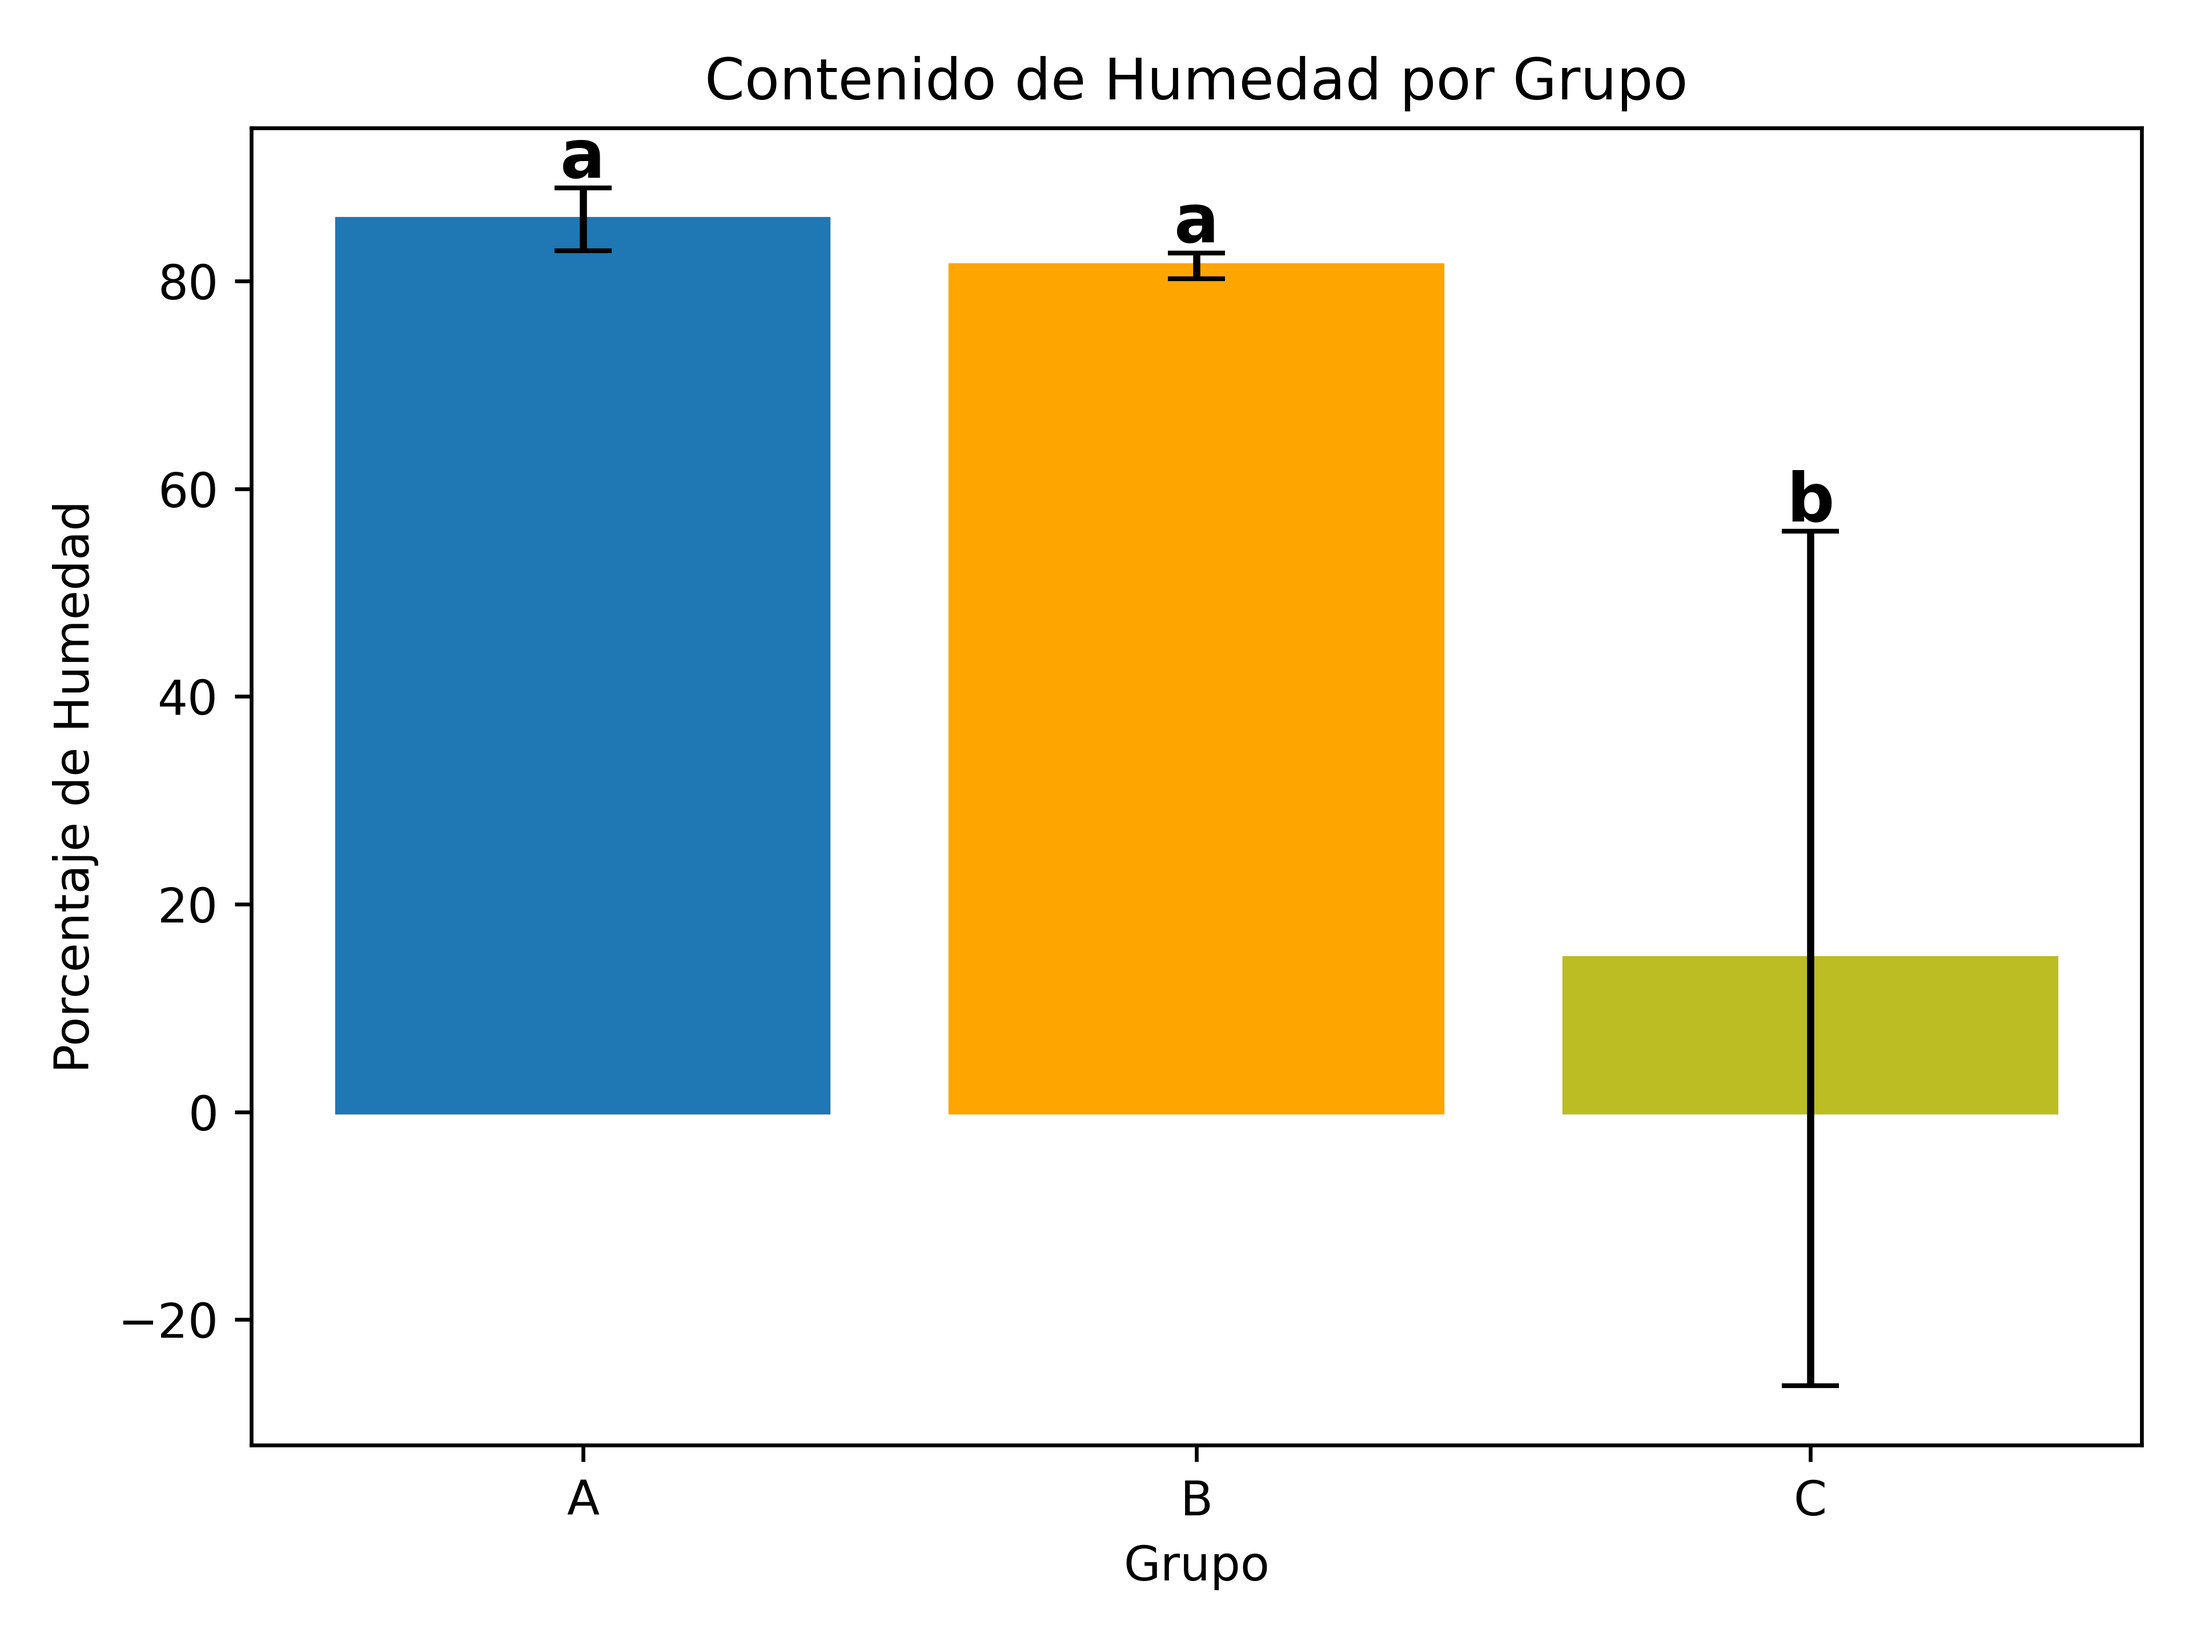
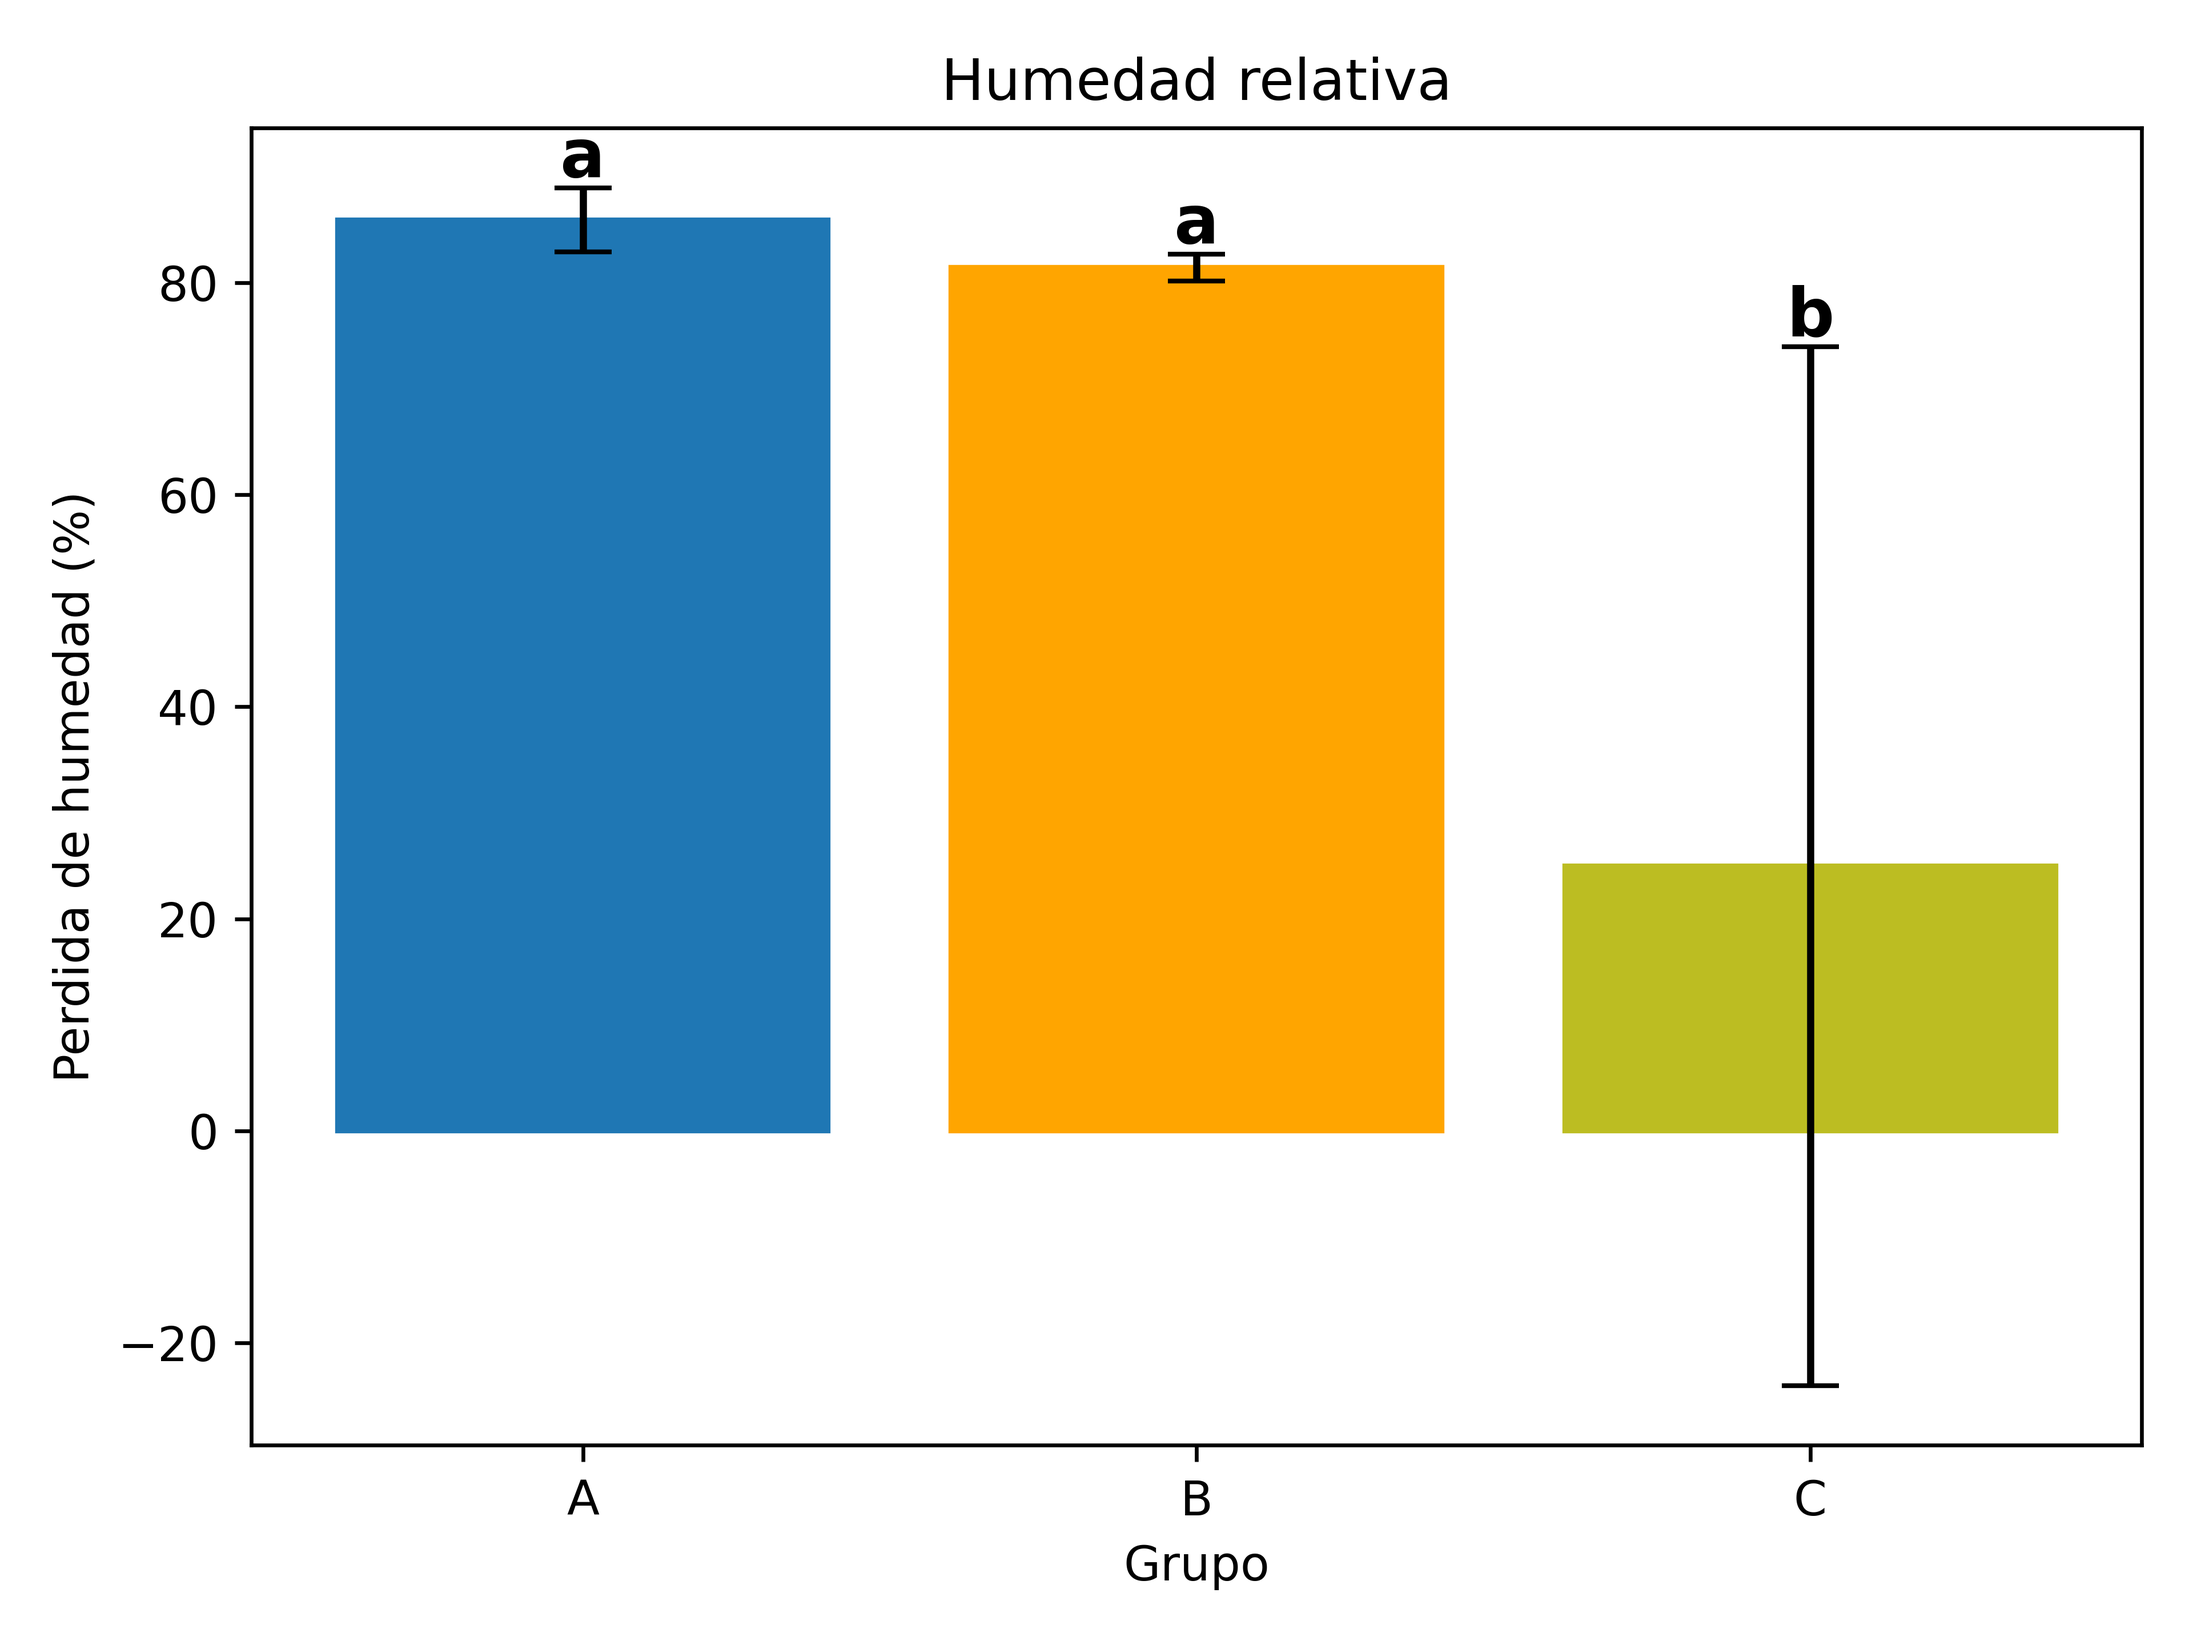
In progress

diff --git a/scripts/analizador.py b/scripts/analizador.py
@@ -22,78 +22,55 @@ print(data.isnull().sum())
 sns.barplot(x='muestra', y='porcentaje_humedad', data=data)
 
 plt.title('Contenido de humedad')
-plt.xlabel('Muestra')
-plt.ylabel('Porcentaje de Humedad')
+plt.xlabel('Muestras')
+plt.ylabel('Porcentaje de humedad (%)')
 
 plt.savefig('data/figuras/distribucion_variable_objetivo.png')
 
-# análisis de varianza (ANOVA)
-groups = [group["porcentaje_humedad"].values for name, group in data.groupby("grupo")]
-f_statistic, p_value = stats.f_oneway(*groups)
-print(f"ANOVA F-statistic: {f_statistic}, p-value: {p_value}")
+# t-test
+group1 = data[data["grupo"] == "A"]["porcentaje_humedad"]
+group2 = data[data["grupo"] == "B"]["porcentaje_humedad"]
 
-# prueba de Tukey para comparaciones múltiples
-if p_value < 0.05:
-    print("\nRunning Tukey test...\n")
-    
-    tukey = pairwise_tukeyhsd(
-        endog=data["porcentaje_humedad"],
-        groups=data["grupo"],
-        alpha=0.05
-    )
-    
-    print(tukey)
-    tukey.plot_simultaneous()
-    plt.title('Tukey HSD Test')
-    plt.xlabel('Mean Difference')
-    plt.savefig('data/figuras/tukey_test.png')
-else:
-    print("No significant differences found among groups.")
+# t-test
+t_stat, p_value = stats.ttest_ind(group1, group2)
 
-# gráfico de cajas para visualizar las diferencias entre grupos
-
-stats = data.groupby("grupo")["porcentaje_humedad"].agg(["mean", "std"])
-
-# estadísticas para asignar letras
-groups = stats.index
-means = stats["mean"]
-stds = stats["std"]
-
-# Tukey
-tukey = pairwise_tukeyhsd(data["porcentaje_humedad"], data["grupo"], alpha=0.05)
-print(tukey)
-
-# Check significance
-reject = tukey.reject[0]  # True or False
-
-# Assign letters
-if reject:
-    letters = ['a', 'b']  # different
-else:
-    letters = ['a', 'a']  # same
+# Stats
+means = data.groupby("grupo")["porcentaje_humedad"].mean()
+stds = data.groupby("grupo")["porcentaje_humedad"].std()
 
 # Plot
 plt.figure()
+bars = plt.bar(means.index, means.values, yerr=stds, capsize=6)
 
-bars = plt.bar(
-    groups,
-    means,
-    yerr=stds,
-    capsize=6
-)
+# color
+colors = ["#4C72B0", "salmon"] 
 
-# Colors
-colors = ["#1f77b4", "orange"]
 for bar, color in zip(bars, colors):
     bar.set_color(color)
 
-# Add Tukey letters above bars
-for i, (mean, std, letter) in enumerate(zip(means, stds, letters)):
-    plt.text(i, mean + std + 1, letter, ha='center', fontsize=14, fontweight='bold')
+# Add significance line
+x1, x2 = 0, 1
+y = max(means + stds) + 2
 
-plt.title('Contenido de Humedad por Grupo')
-plt.xlabel('Grupo')
-plt.ylabel('Porcentaje de Humedad')
+plt.plot([x1, x1, x2, x2], [y, y+1, y+1, y], lw=1.5)
+
+# Add asterisk
+if p_value < 0.001:
+    text = "***"
+elif p_value < 0.01:
+    text = "**"
+elif p_value < 0.05:
+    text = "*"
+else:
+    text = "ns"
+
+plt.text((x1+x2)/2, y+1.2, text, ha='center', fontsize=14)
+
+plt.xlabel("Grupo")
+plt.ylabel("perdida de humedad (%)")
+
+# y axis
+plt.grid(axis='y', linestyle='--', alpha=0.5)
 
 plt.tight_layout()
 plt.savefig('data/figuras/boxplot_letras.png', dpi=600)

diff --git a/scripts/analizador_camila.py b/scripts/analizador_camila.py
@@ -104,9 +104,9 @@ for bar, color in zip(bars, colors):
 for i, (mean, std, letter) in enumerate(zip(means, stds, letters)):
     plt.text(i, mean + std + 1, letter, ha='center', fontsize=14, fontweight='bold')
 
-plt.title('Contenido de Humedad por Grupo')
+plt.title('Humedad relativa')
 plt.xlabel('Grupo')
-plt.ylabel('Porcentaje de Humedad')
+plt.ylabel('Perdida de humedad (%)')
 
 plt.tight_layout()
 plt.savefig('data_camila/figuras/boxplot_letras.png', dpi=600)
